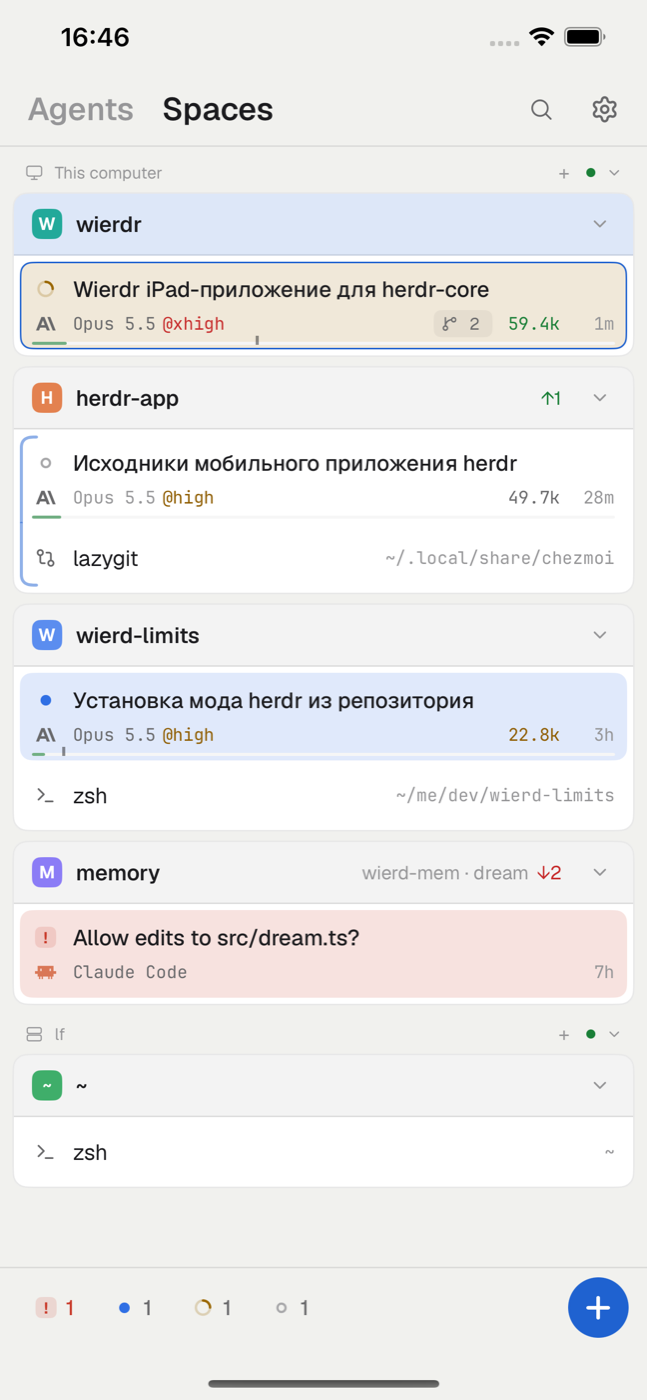
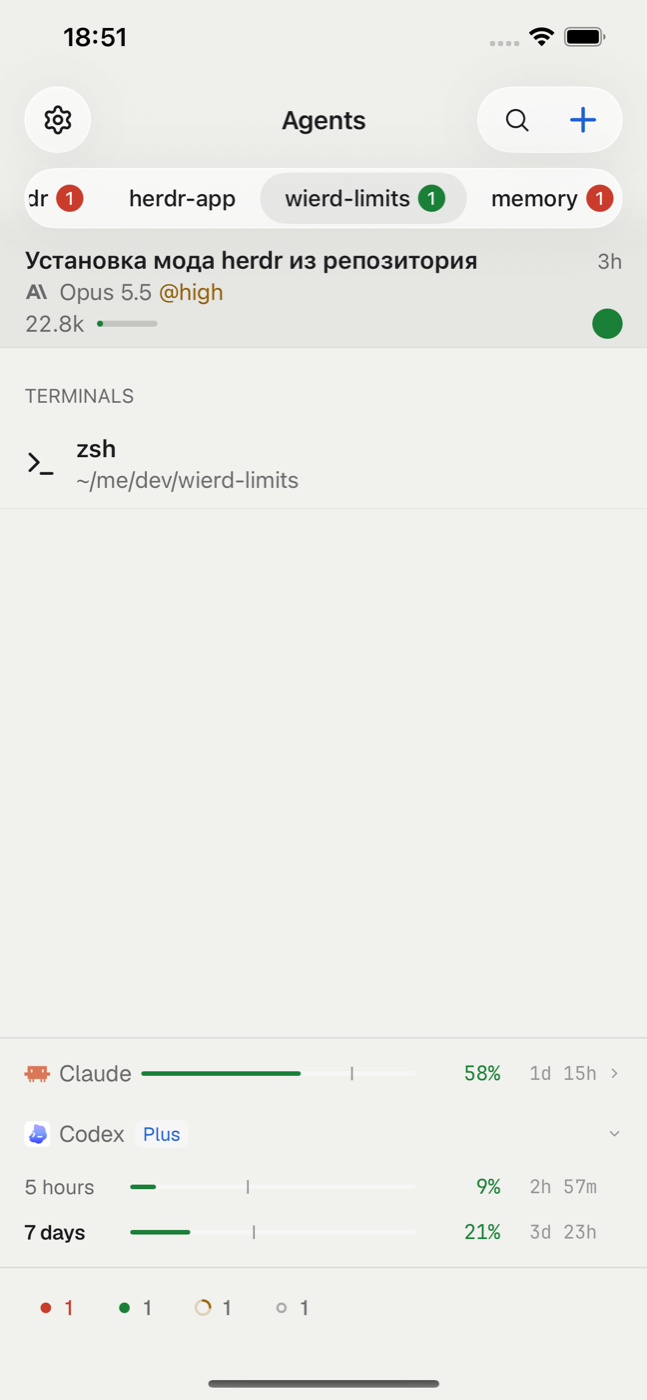
Docs and polish for the iPhone list after Telegram: FEATURES §7, TRADEOFFS (the list as the first screen with the pane pushed over it, spaces as Telegram's folder tabs, rows as its chat rows), architecture's Phone/ row, the README, ui-spec's herdr.pinned (Wierdr writes the pin's time); new screensho

diff --git a/App/Sources/Phone/PhoneAgentList.swift b/App/Sources/Phone/PhoneAgentList.swift
@@ -149,7 +149,7 @@ struct PhoneAgentList: View {
         switch t.status {
         case .idle:
             out.append(PhoneSwipeAction(id: "unread", title: "Unread", symbol: "message.badge.filled.fill",
-                                        color: theme.accent, iconColor: theme.accentForeground) {
+                                        color: PhoneSwipeColors.unread(theme)) {
                 controller.markUnread(t.address)
             })
         case .done:
@@ -230,8 +230,9 @@ struct PhoneAgentList: View {
     }
 }
 
-/// The swipe buttons' fills: Telegram's (day/night) for pin, inactive and destructive.
+/// The swipe buttons' fills: Telegram's (day/night) for unread, pin, inactive and destructive.
 enum PhoneSwipeColors {
+    static func unread(_ theme: Theme) -> Color { Color(hex: theme.isDark ? "#666666" : "#0088ff") }
     static func pin(_ theme: Theme) -> Color { Color(hex: theme.isDark ? "#08a723" : "#00c900") }
     static func inactive(_ theme: Theme) -> Color { Color(hex: theme.isDark ? "#666666" : "#bcbcc3") }
     static func destructive(_ theme: Theme) -> Color { Color(hex: theme.isDark ? "#c70c0c" : "#ff3824") }

diff --git a/docs/TRADEOFFS.md b/docs/TRADEOFFS.md
@@ -42,23 +42,25 @@
 | Перетаскивание спейсов | Системный drag самого списка: у collection view `List` drag‑ и drop‑делегаты свои (`SpaceListDragDrop`), всё не‑спейсовое уходит делегатам SwiftUI. Не своё «удержал 220 мс — карточка поднялась», как на десктопе. Поднятую карточку рисует список (`LiftedCard`), превью системы невидимо; слот и расступающиеся карточки — тоже свои: строки перетаскиваемой карточки остаются в списке пустыми (пунктир), порядок до подтверждения документом — свой (до 2 с) | Пальцем удержание — это ещё и меню спейса, а система сама разводит «меню» и «повёл — потащил» и сама прокручивает список у краёв. Своё превью — потому что системное ставит себя куда хочет (после меню — по центру под пальцем, ~33 pt от верха, как бы ни взяли) и на лету не меняется: снимок, а не вид, и его пружина досчитывает ~1,2 с. Карточка — слой окна, её ведёт сама сессия drag (`location`, каждый кадр), поэтому летает и над панелью; за пределами списка слот стоит на её прежнем месте (на десктопе карточка там просто возвращается). Отпущенную за пределами списка карточку ловит прозрачный вид поверх окна (на время drag, сквозной над списком): это для системы drop, слышный сразу, — иначе drag кончается только после её анимации отмены, и карточка висела бы на месте; окно само ловить не может — панель (SwiftUI) забирает drag своей целью, ради пилюль табов. Отменённый drag система «возвращает» поднятый заголовок, к тому времени пустой слот, — его превью при отмене невидимо. **Цена:** Если дождаться меню и вести в его сторону (оно открывается над или под заголовком), палец сначала идёт по пунктам — отпустишь на пункте, он сработает; drag начинается, когда палец вышел за меню. SwiftUI ставит свои делегаты заново, обновляя список, — свои возвращаются на каждом касании. `.onDrag` в строке `List` не годится: когда тащат из открытого меню, SwiftUI берёт предмет у строки под пальцем, а не у поднятой. Ворктри не переезжают вместе со своим репо (десктоп сам вернёт их под него). |
 | Перетаскивание табов | Пилюлю — на другую пилюлю (`tab.move`), без расступания | Время. |
 | Демо‑режим | Команды в демо только показывают тост | Нет фейкового бэкенда. |
-| iPhone | Своя раскладка (`App/Sources/Phone`): список агентов/спейсов и одна панель на экран; на iPhone в любой ориентации и в узком окне iPad | Широкий iPad не тронут. Подробности и цена — в разделе «iPhone» ниже. |
+| iPhone | Своя раскладка (`App/Sources/Phone`): список агентов (табы спейсов, как папки Telegram) и одна панель на экран поверх него; на iPhone в любой ориентации и в узком окне iPad | Широкий iPad не тронут. Подробности и цена — в разделе «iPhone» ниже. |
 
 ## iPhone: компромиссы
 
 | Тема | Решение | Почему / цена |
 |---|---|---|
 | Сплиты | На iPhone всегда одна панель на экран; панели спейса — полоса чипов под заголовком | Два терминала рядом на 428 pt — по ~28 колонок, нечитаемо. Структура табов/сплитов не меняется (десктоп видит всё как было); Split в меню создаёт панель так же, как на десктопе. |
-| Размер терминала | Как на iPad: iPhone — активный зритель. Открыл агента на телефоне — его терминал (и на Mac) становится ~57 колонок | Режим наблюдателя на телефоне нечитаем: 120 колонок в 428 pt — это шрифт ~5 pt. Mac забирает размер по клику/вводу. Пока ты в списке, ни один терминал не подключён и не меняется. |
+| Размер терминала | Как на iPad: iPhone — активный зритель. Открыл агента на телефоне — его терминал (и на Mac) становится ~57 колонок | Режим наблюдателя на телефоне нечитаем: 120 колонок в 428 pt — это шрифт ~5 pt. Mac забирает размер по клику/вводу. Пока ты в списке, экрана панели нет: её терминал ничего не меняет и через минуту отключается (вернулся раньше — вывод уже на месте). |
 | Шрифт и отступы | 12 pt и 8 × 6 pt на iPhone (14 pt и 14 × 12 — на iPad) | ~57 колонок в портрете, ~120 в альбомной; щипком 9…24 pt. Отдельная настройка на каждом устройстве. |
 | Клавиатура и терминал | Пока открыта клавиатура (поле сообщения или прямой ввод), терминал становится ниже (RESIZE), а не уезжает под неё | Видно последний вывод агента, пока пишешь ответ; цена — TUI перерисовывается при каждом показе/скрытии клавиатуры. |
 | Поле сообщения всегда под терминалом | Как композер Telegram: скрепка, поле, кнопка отправки внутри поля с первым символом; тап — клавиатура, двойной тап по терминалу — убрать её, поле сужается до двух строк. Пока клавиатура у самого терминала (двойной тап), поля нет | Сообщение — в один тап, черновик всегда виден (до двух строк, прокручивается). Цена: терминал ниже на ~76 pt всегда (на iPad — на высоту поля под панелями), и TUI перерисовывается, когда поле растёт или сужается (RESIZE на каждую новую строку). Раньше поле открывалось свайпом + Type и под терминалом ничего не было. |
 | Compose | Текст уходит одной вставкой (bracketed paste, если программа его включила), Return — отдельной записью через 60 мс | Многострочное сообщение не отправляется построчно, автодополнения TUI (`/`, `@`) не перехватывают ввод. Длинную вставку агент может свернуть в «[Pasted text …]» (как при Ctrl+V). |
 | Картинки | `terminal.put` кладёт файл рядом с терминалом, в поле вставляется путь; картинка уходит агенту путём в тексте | Так делает и десктоп (Ctrl+V картинки). Агент читает файл своим инструментом; превью в самом TUI нет. HEIC → JPEG, > 2048 px уменьшается (лимит core — 8 МБ). Камеры нет (нужен отдельный запрос доступа) — только фотоплёнка и буфер. |
 | Смарт‑пунктуация | Поле — свой `UITextView`: «умные» кавычки выключены всегда, тире — только для агентов; оставшееся (кавычки из длинного нажатия, `—flag`) → `"` `'` `--` при отправке | Для шелла автокоррекция и заглавные выключены, для агентов — включены. Свойства ввода ставятся только при изменении: повторная установка (даже тех же значений) заставляла клавиатуру iOS 26 пересинхронизироваться, и быстро набранные буквы уходили туда, где курсор был раньше. |
-| Свайпы по терминалу | Влево — в любом месте терминала (на обоих устройствах) вытягивает панель клавиш у правого края; на iPad — и в сплите, панель под пальцем получает фокус. Вправо — закрывает открытую панель клавиш, а без неё вытягивает список (iPhone) или оверлей сайдбара (iPad, при скрытом сайдбаре; при пристыкованном — ничего) | От края тянуть неудобно (на iPad край — Slide Over), а горизонтальные свайпы терминалу не нужны: прокрутка и колесо мыши — вертикальные. Пока палец не сдвинулся, панорамы терминала (прокрутка, мышь, выделение) ждут жест панели: на вертикальном движении он сразу проваливается. Долгий тап (меню) его не ждёт. Цена: горизонтальный свайп по терминалу ничего другого не делает (раньше тоже не делал); пока есть выделение, свайп тянет его, а не панель. |
+| Свайпы по терминалу | Влево — в любом месте терминала (на обоих устройствах) вытягивает панель клавиш у правого края; на iPad — и в сплите, панель под пальцем получает фокус. Вправо — закрывает открытую панель клавиш, а без неё — назад в список (iPhone, свайп назад по всей панели) или вытягивает оверлей сайдбара (iPad, при скрытом сайдбаре; при пристыкованном — ничего) | От края тянуть неудобно (на iPad край — Slide Over), а горизонтальные свайпы терминалу не нужны: прокрутка и колесо мыши — вертикальные. Пока палец не сдвинулся, панорамы терминала (прокрутка, мышь, выделение) ждут жест панели: на вертикальном движении он сразу проваливается. Долгий тап (меню) его не ждёт. Цена: горизонтальный свайп по терминалу ничего другого не делает (раньше тоже не делал); пока есть выделение, свайп тянет его, а не панель. |
 | Тап по терминалу | Клик в программу — и при открытой клавиатуре, она остаётся (прокрутка тоже). Двойной тап — клавиатура терминала, при открытой клавиатуре (терминала или поля) — убрать её (на обоих устройствах); поле сообщения — тапом по нему, под терминалом | pi и vim с мышью получают клики, а чтение не перебивает выскочившая клавиатура; с клавиатурой можно кликать и листать, не теряя её. Двойной тап ловит свой распознаватель (с клавиатурой — распознаватель панели клавиш на корневом view, без неё — терминала), тапы SwiftTerm ждут его провала: в программу на двойной тап ничего не уходит. Цена: пальцем двойной/тройной тап больше не выделяет слово/строку (выделение — меню долгого тапа; указателем двойной/тройной клик выделяет по‑прежнему); одиночный клик, как и раньше, ждёт, не будет ли второго тапа. Панель клавиш тап не закрывает (только свайп вправо): тап рядом с ней — клик в программу. |
-| Список на iPhone | Оверлей поверх панели (как на iPad), а не экран «назад»; свой пан — свайп вправо по терминалу или из левых 24 pt, поверх всего, список едет за пальцем; на всю ширину экрана | Панель всегда под списком, переход к агенту — без анимации push; свайп влево возвращает к той же панели (полосы для тапа справа больше нет). Свой контейнер вместо `NavigationStack` ради терминала (его жесты) и анимации. Выделение текста от самого левого края терминала стартует чуть позже; свайп влево по строке закрывает список (и оверлей на iPad), поэтому у строк нет действий свайпом влево — Unread/Idle и Close только в long‑press меню. |
+| Список на iPhone | Как список чатов Telegram: первый экран; панель — экран поверх него (push справа, свайп назад в любом месте панели), с движением Telegram (iOS 26): параллакс 0,3, затемнение, скруглённые углы, пружины и правило отпускания UIKit | Свой контейнер вместо `NavigationStack`: точные пружины и правила Telegram (без резинки за краями, без перелёта), начало свайпа через 2 pt, а терминал (его панорамы, выделение, панель клавиш) договаривается с жестом назад сам. Пока ты в списке, ни один агент не выбран: экран панели убирается из иерархии (терминал отключится через минуту; вернёшься раньше — вывод на месте, иначе переаттач). Скруглённые углы — радиус экрана из закрытого свойства `UIScreen` (нет — углы прямые); карта панели во время перехода — на весь экран с возвращённой ей безопасной зоной (без клавиатуры), чтобы обрезка шла по краю экрана. Свайп назад ждут все остальные панорамы панели (на вертикальном движении он проваливается за 2 pt). |
+| Спейсы на iPhone | Табы спейсов над списком, как папки чатов Telegram (All + спейс), свайп по списку листает их; режима Spaces с карточками больше нет | Агенты нужнее всего, спейс — фильтр. Меню спейса — long‑press по табу (Rename, New Tab, Close), перетаскивания спейсов на iPhone нет (оно в сайдбаре iPad). Как у Telegram, листают спейсы свайпы из середины экрана, а действия строк — свайпы от краёв (по 1/6 ширины): цена — свайп по строке из середины не открывает её кнопки. Страницы — свои, а не `ScrollView` с пейджингом: резинка и правила отпускания Telegram. |
+| Строки на iPhone | Как строки чатов Telegram, без большого аватара: статус — на месте счётчика непрочитанных, закреплённые сверху на сером, порядок — по последней смене статуса | Всё, что было в карточке, осталось (модель, effort, контекст и кэш, сабагенты, машина), но плотнее и без групп по статусу; срочное видно по красным/зелёным кружкам справа и бейджам табов. Время закрепления — в значении метки `herdr.pinned` (десктоп видит любое непустое как «закреплён»; его «1» — после закреплённых здесь). Кнопки свайпов — свои, круглые, как у Telegram (иконки статичные, без Lottie). |
 | Баннеры «Needs you / Done» | Только внутри приложения и только на экране панели (в списке изменения и так видны) | Фоновых уведомлений нет: iOS усыпляет приложение и рвёт SSH; нужен APNs/свой релей. |
 | Экран не гаснет | Пока на экране работающий (`working`) агент | Заблокированный iPhone рвёт соединение; цена — батарея, пока смотришь, как агент работает. |
 | Установка по воздуху | `scripts/ota.sh`: страница + manifest + ipa по HTTPS на имени Mac в tailnet (`tailscale serve`, путь `/wierdr`), раздаёт локальный `python3 http.server` (127.0.0.1:8791) | Tailscale.app не умеет раздавать папки (sandbox), поэтому нужен процесс‑сервер. Только tailnet, без Funnel; остальные обработчики `tailscale serve` не трогаются. Выключить: `scripts/ota.sh off`. Сборка development: ставится только на устройства из профиля команды (iPhone 13 Pro Max в нём есть, профиль до 23.07.2027). |

diff --git a/docs/architecture.md b/docs/architecture.md
@@ -57,7 +57,7 @@ make ipa            # dist/Wierdr.ipa (development signing)
 | `Workspace/` | `WorkspaceView` (NavigationSplitView), `WorkspaceController` (commands for buttons/menus/shortcuts, pending selection, dialogs, toasts), `WorkspaceCommands` (menu bar / ⌘ shortcuts). |
 | `Sidebar/` | Brand bar, machine headers, space cards, agent/terminal rows and the sub-agent tree under an agent's row (each sub-agent a `List` row of its own, `CardItem.kid`, so folding is a native row insert/remove; `TreeLines` draws `├ └ │`), quick switcher, `LimitsPanel` (subscription limits above the footer; also on the iPhone's home, `large`). `SpaceDrag`: reordering space cards. The `List`'s collection view drags and drops through `SpaceListDragDrop`, standing in for SwiftUI's delegates (which get everything else; SwiftUI sets them again as it updates the list, so ours return on every touch): a header starts a drag of its space; the system's preview is invisible and the lifted card is drawn in the window (`LiftedCard`: the card rendered afresh by `SpaceDragPreview`, lifted and resting; a display link holds it where the finger took it, on the list or off it; it lands in its slot with a crossfade, or flies back there when let go off the list, which `SpaceOffListDrop`, a see-through drop target over the window during the drag, hears at once); row markers (UIKit views behind the card rows) say where the cards are; the list shows the machine's spaces in the drag's lane order, the dragged card's rows staying as its dashed slot; the drop is `Workspace.moveSpace` (`space.move`). |
 | `Panel/` | Tab bar + new menu, pane tree with weights, pane cards/headers, the message field under the panes (`ComposerBar`), terminal view seam (`TerminalViewProvider`), demo terminal. `SubAgentPeek`: a sub-agent without a pane over the window (iPad; `WorkspaceController.peek`), with Keep/Close; the iPhone shows `peek` on `PhonePaneScreen` in its parent's place. `KeyLayerHost`: the iPad's one key panel (`KeyPanelLayer` on a clear rect laid over the panes' frame, `controller.keyArea`, reported by `TerminalPanel`), drawn over the whole window, so over the sub-agent's window too, for the focused pane's terminal or the sub-agent looked at (`controller.keys`). |
-| `Phone/` | The iPhone (and narrow iPad window) layout: `PhoneWorkspaceView` (one pane with the list slid over it, the screen's width, by a swipe right on the terminal or from the left edge, attention banner), `PhoneHome` (Agents inbox by status / Spaces list, footer counts, new-space menu), `PhonePaneScreen` (top bar, Telegram's chat header in the message field's glass (`ComposerGlassGroup` / `composerGlass` from `Input/ComposerBar`): 44-pt pills, the list button's circle or "‹ (N)" while other agents aren't idle (`WorkspaceController.attention(excluding:)`), the title capsule ringed with the agent's status (a 1.5-pt keyline on the glass, as the Dynamic Island's: glass of another tint doesn't merge with the list button's as it goes into the capsule and comes back out of it), title over space; the bar floats over the terminal (the screen keeps its collapsed 56 pt), so a tap on the capsule can grow it (left over the list button, always; down over the terminal, which keeps its size, for a title cut on one line) and slide the pane menu down (`PhonePaneMenu`, its own glass panel rather than a system `Menu`, which on iOS 26+ morphs out of its label and hides it) under the capsules' row (not in the capsule's column, which moves left as it grows), over a layer that takes the tap that closes it; the terminal and under it the message field, `Input/ComposerBar`, the key panel over the terminal), `PhoneKeyPanel` (key column pulled out over the terminal, its keys pills in the same glass, one `ComposerGlassGroup`, ⏎ with the send button's accent pill; scrolls rest where the end key shows whole and the next one half (`restRange`); less room moves the keys only to keep that, animated, more room leaves them; a constant empty room above and below the keys and Hide's place kept, the limits only where a finger's scroll ends (`KeyColumnStops`), the app's own scrolls to an offset (`ScrollPosition`); see `Input/`: keys → `TerminalSession.send(key:)`, clipboard text → `send(text:submit: false)` or into the message). `WorkspaceView` picks it when `Device.isPhone` or the width is compact; `WorkspaceController.singlePane` makes "seen" follow the one pane on screen. |
+| `Phone/` | The iPhone (and narrow iPad window) layout, after Telegram's chat list and chat: `PhoneWorkspaceView` (Telegram's navigation: the list is the root screen and the pane screen is pushed over it while `compactColumn == .detail`; `PhoneNavCard`, an animatable modifier, draws both cards at a progress (the pane's at (1 − p)·W with the display's corners and a faint shadow while it moves, laid out edge to edge with the window's safe area given back, keyboard aside; the list at −0.3·W·p under a black dim); pushes and pops on a critically damped 0.3-s spring; `PhoneBackSwipe` (a pan on the window's root view, `PhoneBackSwipeRecognizer`: Telegram's 2-pt start rule, every other pan waits for it, the key panel's first while it's out) and `PhonePopTracker` (UIKit's release rule) for the swipe back; popped, the pane screen leaves the hierarchy; attention banner), `PhoneHome` (header floating over the pages with Telegram's edge effect: settings, title or connection state, search and +; the spaces strip `PhoneSpaceTabs`, Telegram's folder tabs with its lens pill, badges and a long-press space menu; the pages `PhoneSpacePager`, side by side, Telegram's folder paging on `PhoneSpacePaging` state with `PhonePagerPan` on the root view, which takes swipes that start outside the edge zones, W/6 clamped to 22…80 pt; limits and status counts at the bottom), `PhoneAgentList` (a page: `Workspace.phoneList(space:)`, Telegram's order, pinned by pin time (`herdr.pinned` holds it, `TerminalInfo.pinnedAt`); rows in Telegram's chat-row style, `PhoneListRow` frame with the pinned background, press highlight, separators and Telegram's swipe actions (`PhoneRowSwipe`: `PhoneRowPan` from the edge zones, round buttons, full swipe), contents in `PhoneAgentRow`; nothing selected on the list), `PhonePaneScreen` (top bar, Telegram's chat header in the message field's glass (`ComposerGlassGroup` / `composerGlass` from `Input/ComposerBar`): 44-pt pills, Telegram's back button "‹", or "‹ (N)" while other agents aren't idle (`WorkspaceController.attention(excluding:)`), the title capsule ringed with the agent's status (a 1.5-pt keyline on the glass, as the Dynamic Island's: glass of another tint doesn't merge with the list button's as it goes into the capsule and comes back out of it), title over space; the bar floats over the terminal (the screen keeps its collapsed 56 pt), so a tap on the capsule can grow it (left over the list button, always; down over the terminal, which keeps its size, for a title cut on one line) and slide the pane menu down (`PhonePaneMenu`, its own glass panel rather than a system `Menu`, which on iOS 26+ morphs out of its label and hides it) under the capsules' row (not in the capsule's column, which moves left as it grows), over a layer that takes the tap that closes it; the terminal and under it the message field, `Input/ComposerBar`, the key panel over the terminal), `PhoneKeyPanel` (key column pulled out over the terminal, its keys pills in the same glass, one `ComposerGlassGroup`, ⏎ with the send button's accent pill; scrolls rest where the end key shows whole and the next one half (`restRange`); less room moves the keys only to keep that, animated, more room leaves them; a constant empty room above and below the keys and Hide's place kept, the limits only where a finger's scroll ends (`KeyColumnStops`), the app's own scrolls to an offset (`ScrollPosition`); see `Input/`: keys → `TerminalSession.send(key:)`, clipboard text → `send(text:submit: false)` or into the message). `WorkspaceView` picks it when `Device.isPhone` or the width is compact; `WorkspaceController.singlePane` makes "seen" follow the one pane on screen. |
 | `Input/` | `ComposerBar`: the message field, always under the terminal (iPhone), under all the panes (iPad, for the focused one) and at the bottom of a sub-agent's window, hidden while the terminal has the keyboard itself; Telegram's composer (geometry, glass, motion: `ComposerMotion`) in the theme's colors: the attach menu (photo, file, clipboard image → `TerminalSession.put`, `Support/ImageForAgent`, the path into the draft), the field (`ComposerTextView`, a `UITextView`: one truncated line without the keyboard, grows to Telegram's cap with it; on the iPad a 1-pt input accessory for `KeyboardCover`), the send button inside it (one paste + Return via `TerminalSession.send(text:submit:)`); drafts in `WorkspaceController.drafts`, the field with the keyboard is `WorkspaceController.composing`. `KeyPanelLayer`: the key panel (`PhoneKeyPanel`) over a terminal area and how it and the keyboards come, shared by the iPhone screen and the iPad panel: a swipe to the left anywhere on a terminal (`PhoneKeyPanelGestures`, on the window's root view: the terminal's pans wait for it; ⏎ comes out where the swipe began); VoiceOver: the terminal's action Keys (`WierdrTerminalView.appActions`). The terminal's own keyboard comes with a finger's double tap on it (`WierdrTerminalView`); while a keyboard is up, a double tap hides it (the field down to one line). |
 | `Terminal/` | SwiftTerm integration: `TerminalSession` (one attach stream ↔ one emulator, grid/FACTS/RESIZE/FOCUS/credit, reattach), `TerminalSessionPool` (per-address sessions, detach when hidden), `TerminalSurface` (SwiftUI), key bar, theme, keymap, `KeyboardCover` (the iPad sidebar's and panel's bottom inset, measured from the key bar, or the message field's empty accessory (`ComposeAccessory`), instead of SwiftUI's keyboard safe area, which iPadOS gets wrong with the floating keyboard). |
 | `Theme/` | Atom One Dark / Paper colors, Geist + JetBrains Mono, icon assets. |

diff --git a/README.md b/README.md
@@ -3,8 +3,9 @@
 Нативное приложение для iPad и iPhone для работы с агентами через **herdr-core**: сайдбар со
 спейсами и агентами и терминальная панель — как в твоём десктопном Herdr (`wierd-layout`),
 живые терминалы, создание спейсов/табов/сплитов. Подключение — по SSH к Mac, без серверов.
-На iPhone — список агентов по тому, что им нужно от тебя, и одна панель на экран с быстрыми
-клавишами и полем ввода (диктовка, вставка + Return) — см. [FEATURES §7](docs/FEATURES.md#7-iphone).
+На iPhone — список агентов как список чатов Telegram (табы спейсов, закреплённые сверху) и
+одна панель на экран, въезжающая поверх него, с клавишами и полем сообщения — см.
+[FEATURES §7](docs/FEATURES.md#7-iphone).
 
 ![Wierdr](docs/screenshots/ipad-landscape-dark.png)
 

diff --git a/docs/research/ui-spec.md b/docs/research/ui-spec.md
@@ -420,7 +420,8 @@ Agent status as shown (docs/labels.md, `model.rs::status`): `status.state` `work
 client's own rule), else idle. The iPad should also **write** `herdr.seen=<turn>` via
 `terminal.label` once per turn while an agent is really on screen (only raising it), so "done"
 clears on every client; "mark unread" = `turn-1`. Pinned = `labels["herdr.pinned"]` non-empty;
-pin/unpin = `terminal.label {herdr.pinned:"1"|""}`. A terminal belongs to a space/tab via labels
+pin/unpin = `terminal.label {herdr.pinned:"1"|""}` (Wierdr writes the pin's Unix time in seconds
+instead of "1", still non-empty, for the iPhone list's pin order). A terminal belongs to a space/tab via labels
 `herdr.space`/`herdr.tab` (ids local to its machine).
 
 ### 10.2 OSC 7501 status record (live, `hc get t5w --json`)
